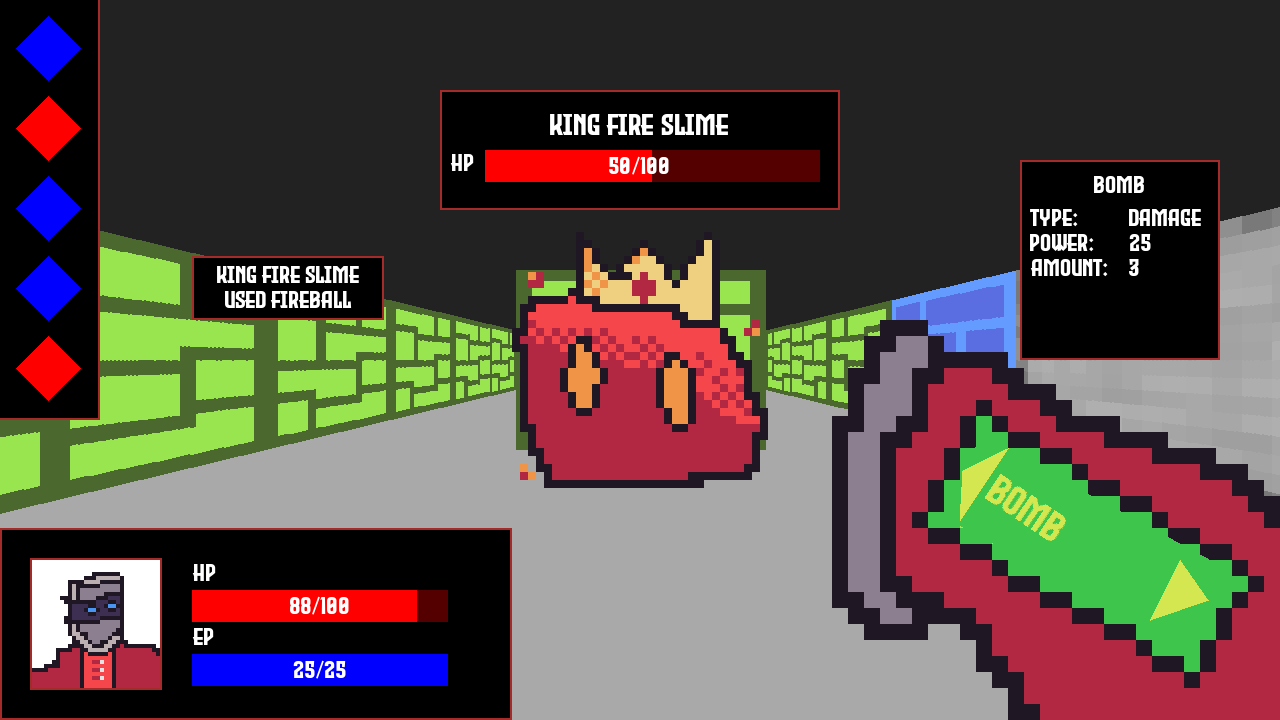
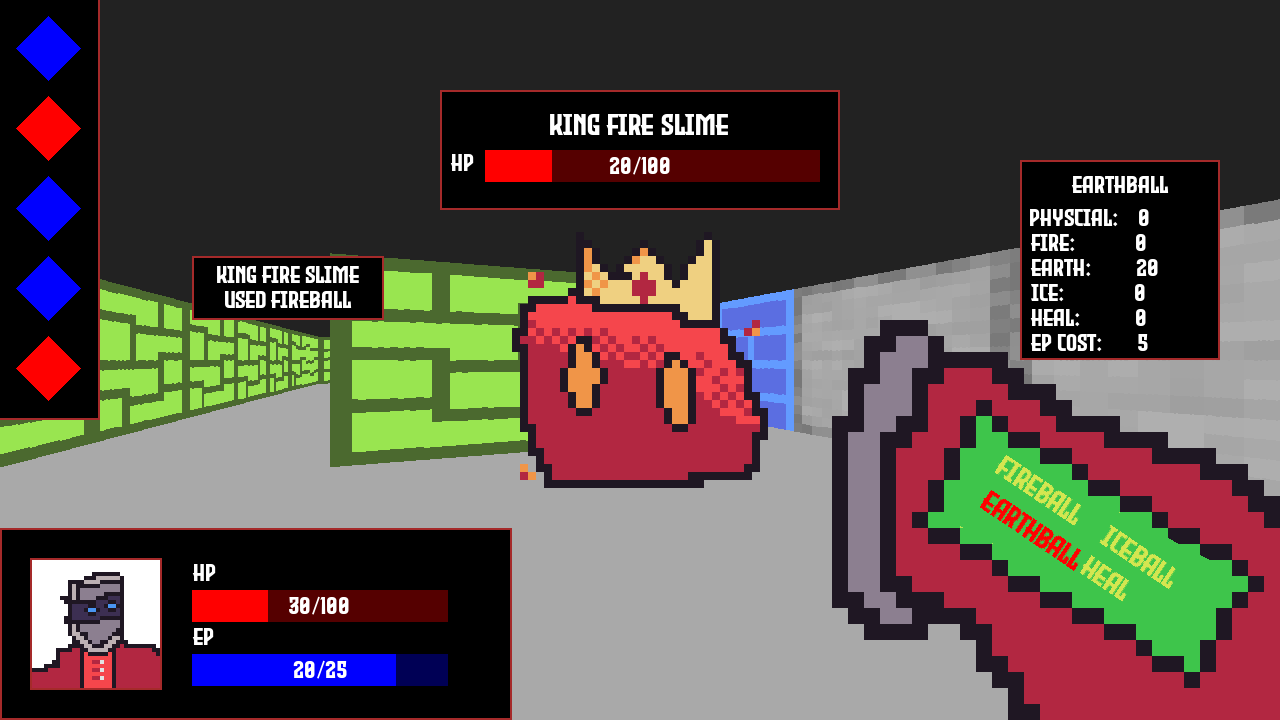
Added Basic Transition Animation
-Added a Basic Transition Animation as a battleAnimation function

diff --git a/main.py b/main.py
@@ -800,6 +800,17 @@ class battleAnimation():
                 pygame.display.flip()
             pygame.time.wait(int(1000/30))#1 frame,      (1000ms/30 frames)ms
 
+    def transitionAnim(self,surface):
+        c=1
+
+        for _ in range(self.lengthTime):
+            c+=1
+            pygame.draw.rect(surface=surface, color="#000000", rect=pygame.Rect(0,0,c*64,720))
+
+            pygame.display.flip()
+            pygame.time.wait(int(1000/30))#1 frame,      (1000ms/30 frames)ms
+        
+
 a = battleAnimation(animID="Fire2Enemy",x=16)
 
 #main function
@@ -864,6 +875,7 @@ def main():
                 pygame.display.flip()
                 game_state.set_value("Battle")
                 pygame.image.save(screen, "Assets/saveBackground.png")
+                battleAnimation(length=20,).transitionAnim(screen)
    
         elif game_state.value == "Battle":
             player_stats.cancel_guard()
